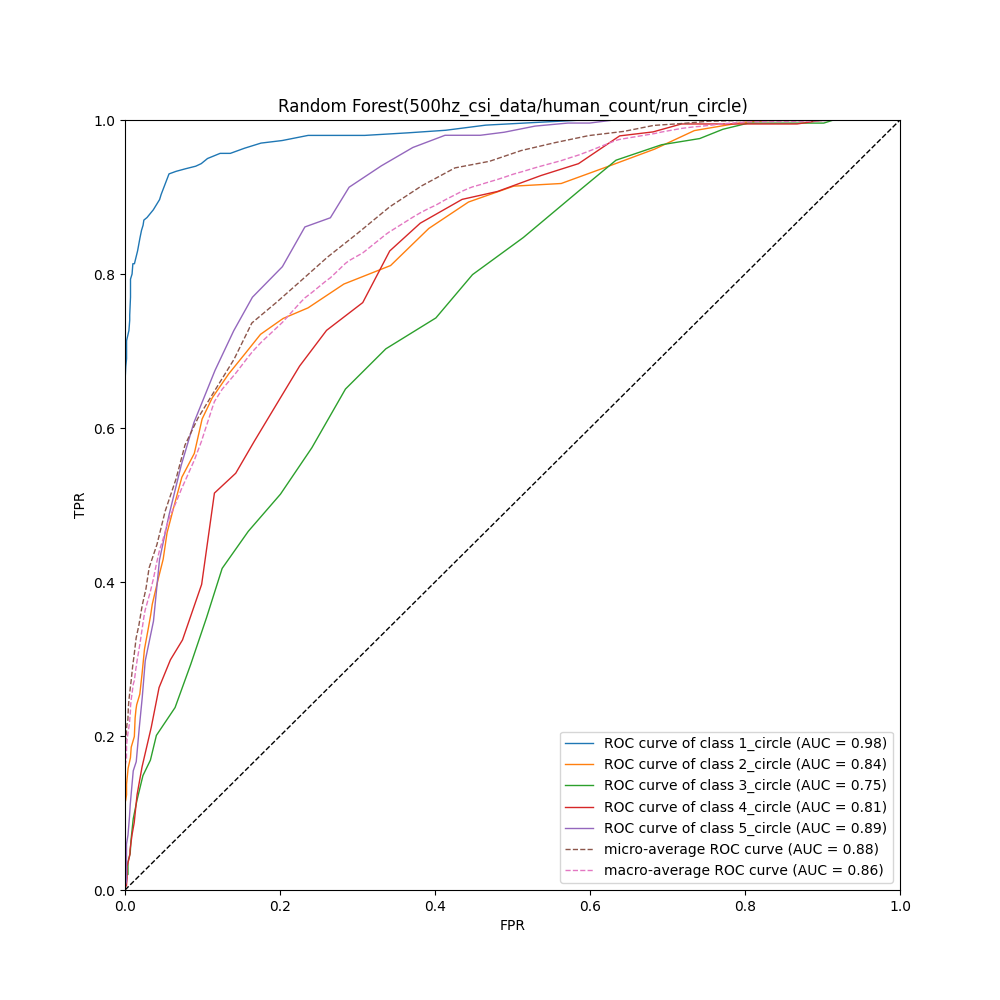
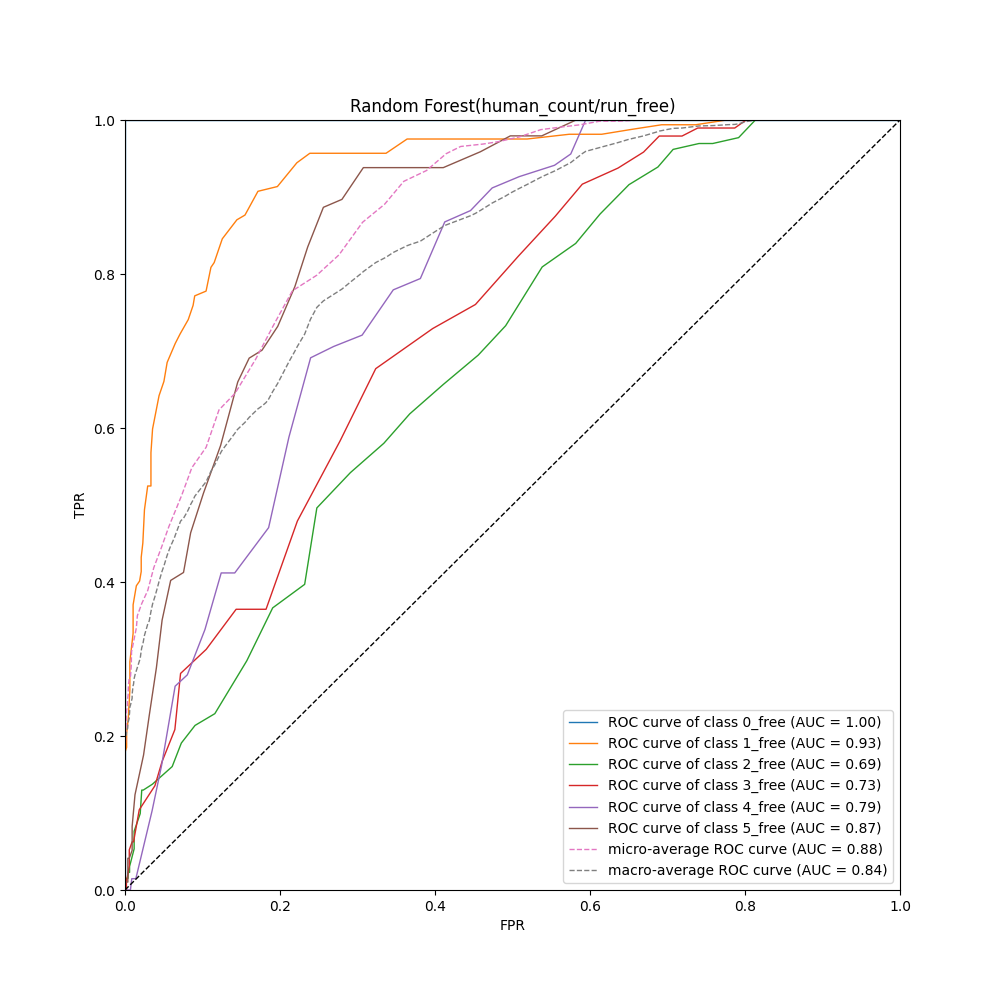
,

diff --git a/lstm.py b/lstm.py
@@ -9,7 +9,7 @@ batch_size = 32
 
 
 class MyLSTM(nn.Module):
-    def __init__(self, seq_len: int, d_in: int, d_out: int, d_hidden: int, lstm_layers: int = 4, out_dir='out'):
+    def __init__(self, seq_len: int, d_in: int, d_out: int, d_hidden: int, lstm_layers: int = 4, out_dir="out"):
         super(MyLSTM, self).__init__()
         #
         self.in_proj = nn.Linear(in_features=d_in, out_features=d_hidden)  # 输入映射
@@ -31,11 +31,11 @@ class MyLSTM(nn.Module):
         x = self.out_proj(x)
         return torch.softmax(x[:, 0], dim=-1)
 
-    @torch.no_grad()
     def predict(self, X: np.ndarray, device: str = "cuda:0"):
         proba = self.predict_proba(X, device=device)
         return np.argmax(proba, axis=-1)
 
+    @torch.no_grad()
     def predict_proba(self, X: np.ndarray, device: str = "cuda:0"):
         X_norm = torch.from_numpy(X).to(device=device, dtype=torch.float32)
         X_norm -= self.X_mean
@@ -58,15 +58,16 @@ class MyLSTM(nn.Module):
         self.X_std, self.X_mean = states["X_std"], states["X_mean"]
 
     def evaluate(self, D_evaluate: Tuple[torch.Tensor, torch.Tensor], device: str = "cuda:0"):
-        X_evaluate = torch.from_numpy(D_evaluate[0]).to(device=device, dtype=torch.float32)
-        y_evaluate = torch.from_numpy(D_evaluate[1]).to(device=device, dtype=torch.int64)
-        X_norm = torch.from_numpy(X_evaluate).to(device=device, dtype=torch.float)
-        X_norm -= self.X_mean
-        X_norm /= self.X_std
+        X_evaluate, y_evaluate = D_evaluate
+        X_evaluate = torch.from_numpy(X_evaluate).to(device=device, dtype=torch.float32)
+        y_evaluate = torch.from_numpy(y_evaluate).to(device=device, dtype=torch.int64)
         #
-        outputs = torch.cat([self(x[0]) for x in DataLoader(TensorDataset(X_norm), batch_size, shuffle=False)])
+        X_evaluate -= self.X_mean
+        X_evaluate /= self.X_std
+        #
+        outputs = torch.cat([self(x[0]) for x in DataLoader(TensorDataset(X_evaluate), batch_size, shuffle=False)])
         accuracy = torch.sum(torch.argmax(outputs, -1) == y_evaluate) / len(outputs)
-        print(f'evaluate: accuracy = {accuracy:.3f}')
+        print(f"evaluate: accuracy = {accuracy:.3f}")
 
     def fit(
         self,
@@ -76,16 +77,18 @@ class MyLSTM(nn.Module):
         device: str = "cuda:0",
     ):
         #
-        X_train = torch.from_numpy(D_train[0]).to(device=device, dtype=torch.float32)
-        y_train = torch.from_numpy(D_train[1]).to(device=device, dtype=torch.int64)
+        X_train, y_train = D_train
+        X_train = torch.from_numpy(X_train).to(device=device, dtype=torch.float32)
+        y_train = torch.from_numpy(y_train).to(device=device, dtype=torch.int64)
         #
         self.X_std, self.X_mean = torch.std_mean(X_train, dim=0, keepdim=True)
         #
         X_train = (X_train - self.X_mean) / self.X_std
         D_train = DataLoader(TensorDataset(X_train, y_train), batch_size, shuffle=True)
         #
-        X_validate = torch.from_numpy(D_evaluate[0]).to(device=device, dtype=torch.float32)
-        y_validate = torch.from_numpy(D_evaluate[1]).to(device=device, dtype=torch.int64)
+        X_validate, y_validate = D_evaluate
+        X_validate = torch.from_numpy(X_validate).to(device=device, dtype=torch.float32)
+        y_validate = torch.from_numpy(y_validate).to(device=device, dtype=torch.int64)
         #
         X_validate = (X_validate - self.X_mean) / self.X_std
         D_evaluate = DataLoader(TensorDataset(X_validate, y_validate), batch_size, shuffle=False)
@@ -93,7 +96,7 @@ class MyLSTM(nn.Module):
         loss_fn = nn.CrossEntropyLoss()
         optimizer = optim.Adam(self.parameters(), lr=1e-3)
         #
-        L_min = float('int')
+        L_min = float("inf")
         for epoch in range(epochs):
             L_train, _ = self._run_epoch(D_train, loss_fn, optimizer)
             L_validate, outputs = self._run_epoch(D_evaluate, loss_fn)
@@ -103,7 +106,7 @@ class MyLSTM(nn.Module):
             )
             if L_validate < L_min:
                 L_min = L_validate
-                self.save(f'{self.out_dir}/epoch_{epoch}-loss_{L_validate:.3f}.pth')
+                self.save(f"{self.out_dir}/epoch_{epoch}-loss_{L_validate:.3f}.pth")
 
     def reset_parameters(self):
         for param in self.parameters():

diff --git a/random_forest.py b/random_forest.py
@@ -6,29 +6,32 @@ from sklearn.model_selection import train_test_split
 
 from utils import evaluate, load_data, plot_roc
 
+#
 random_state = 0
-data_name = "500hz_csi_data/human_count/run_circle"
+data_name = "human_count/run_free"
+
 
 if __name__ == "__main__":
     # 加载数据
-    classes = os.listdir(f"data/{data_name}")
+    classes = [f"{i}_free" for i in range(6)]
     print(classes)
-    X, y, Y = load_data(f"data/{data_name}", classes, seq_len=300, seq_step=30)
-    X = X.reshape(X.shape[0], -1)
-    # 切分数据
-    X_train, X_test, y_train, y_test, Y_train, Y_test = train_test_split(
-        X, y, Y, test_size=0.4, random_state=random_state
+    data = load_data(f"data/{data_name}", classes, seq_len=200, seq_step=200)
+    X_train, y_train = data["X_train"].reshape(len(data["X_train"]), -1), data["y_train"]
+    X_validate, y_validate, Y_validate = (
+        data["X_validate"].reshape(len(data["X_validate"]), -1),
+        data["y_validate"],
+        data["Y_validate"],
     )
     # 数据降维
     pca = PCA(n_components=100)
     pca.fit(X_train)
-    X_train, X_test = pca.transform(X_train), pca.transform(X_test)
+    X_train, X_validate = pca.transform(X_train), pca.transform(X_validate)
     # 训练分类器
     classifier = RandomForestClassifier()
     classifier.fit(X_train, y_train)
     # 评估模型
-    y_pred = classifier.predict(X_test)
-    evaluate(y_test, y_pred)
+    y_pred = classifier.predict(X_validate)
+    evaluate(y_validate, y_pred)
     # 画出ROC曲线
-    Y_score = classifier.predict_proba(X_test)
-    plot_roc(Y_test, Y_score, classes, title=f"Random Forest({data_name})", out_file="out/random_forest.roc.png")
+    Y_score = classifier.predict_proba(X_validate)
+    plot_roc(Y_validate, Y_score, classes, title=f"Random Forest({data_name})", out_file="out/random_forest.roc.png")

diff --git a/lstm_do_train.py b/lstm_do_train.py
@@ -1,14 +1,10 @@
-import os
-
-from sklearn.model_selection import train_test_split
-
 from lstm import MyLSTM
 from utils import evaluate, load_data, plot_roc
 
 device = "cuda:0"
 #
 random_state = 0
-data_name = "500hz_csi_data/human_count/run_circle"
+data_name = "human_count/run_free"
 #
 model_path = "out/lstm.pth"
 
@@ -16,9 +12,9 @@ if __name__ == "__main__":
     # 加载数据
     classes = [f"{i}_free" for i in range(6)]
     print(classes)
-    data = load_data(f"data/{data_name}", classes, seq_len=300, seq_step=10)
+    data = load_data(f"data/{data_name}", classes, seq_len=200, seq_step=200)
     # 训练分类器
-    net = MyLSTM(seq_len=300, d_in=30, d_out=len(classes), d_hidden=64).to(device)
+    net = MyLSTM(seq_len=200, d_in=30, d_out=len(classes), d_hidden=256).to(device)
     net.fit((data["X_train"], data["y_train"]), (data["X_validate"], data["y_validate"]), device=device)
     net.evaluate((data["X_evaluate"], data["y_evaluate"]), device=device)
     # 评估模型
